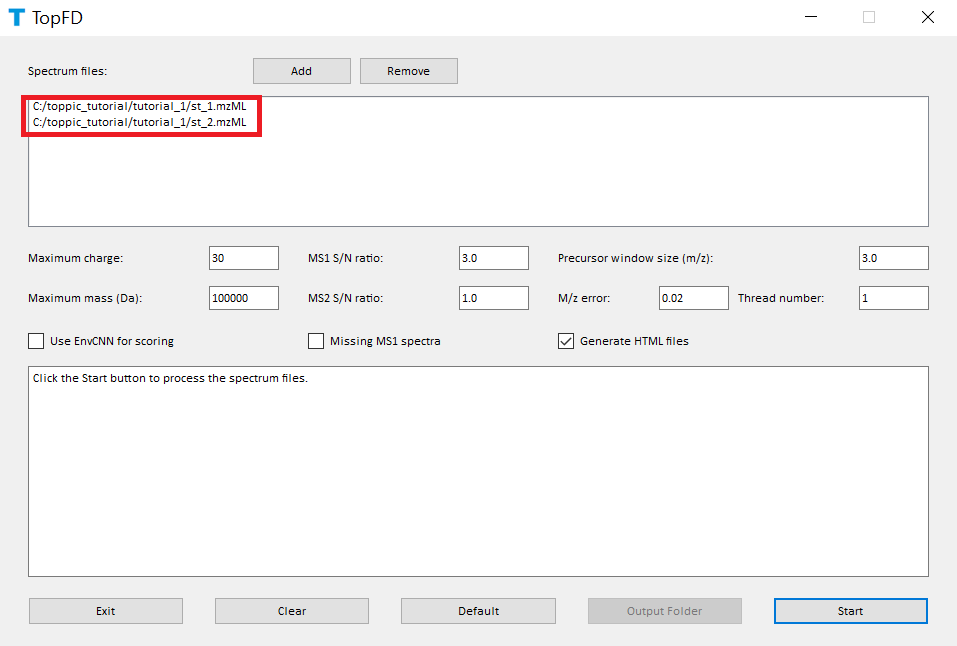
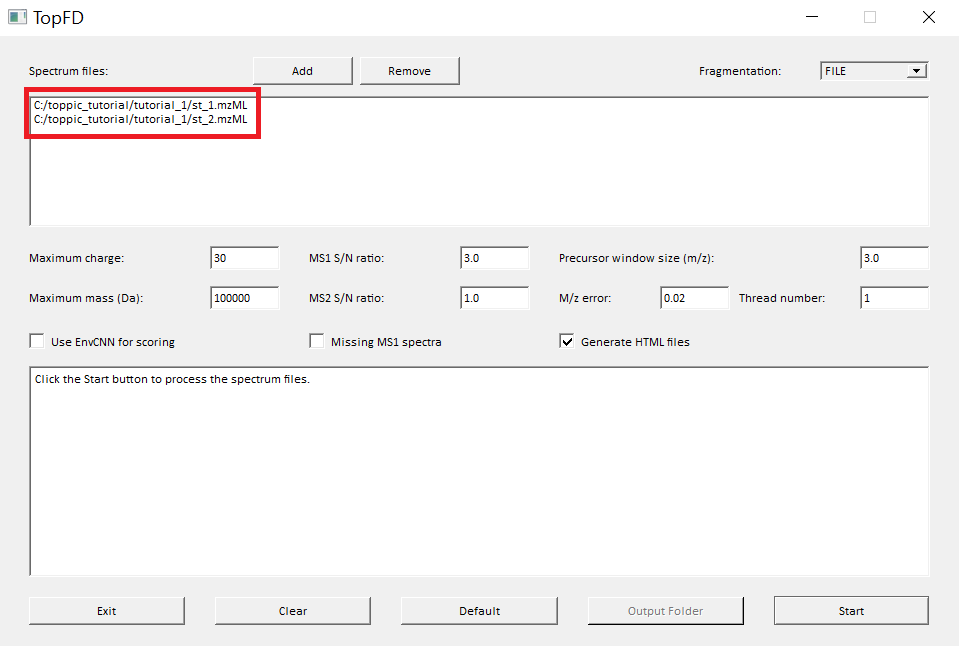
updated topfd screenshot and manual page for activation method

diff --git a/manual.html b/manual.html
@@ -94,6 +94,12 @@
       <p><code>-h [ --help ]</code></p>
       <p>Print the help message.</p>
 
+      <p><code>-a [ --activation ] &lt;CID|HCD|ETD|UVPD|FILE&gt;</code></p>
+      <p>Set the fragmentation method(s) of MS/MS spectra. When "FILE" is
+      selected, 
+      the fragmentation methods of spectra are given in the input spectrum data
+      file. Default value: FILE.</p>
+      
       <p><code>-c [ --max-charge ] &lt;a positive integer&gt;</code></p>
       <p>Set the maximum charge state of precursor and fragment ions. The default value is 30.</p>
 
